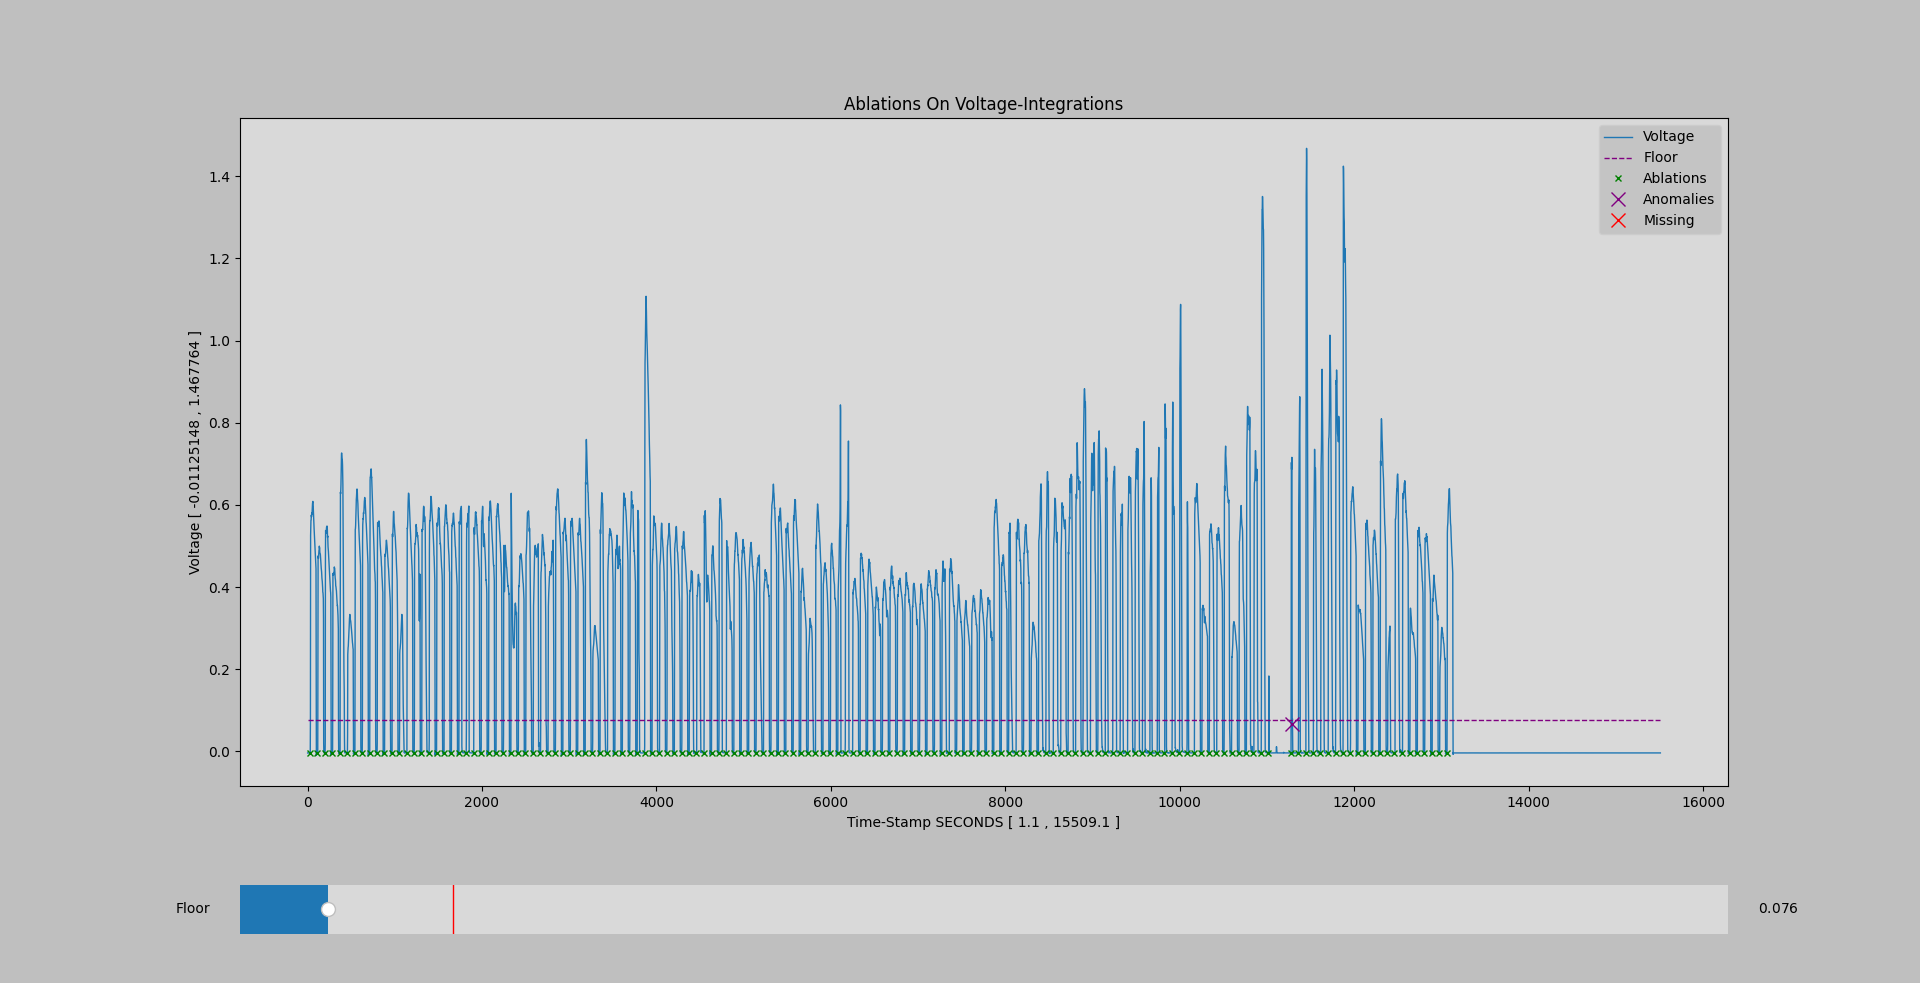
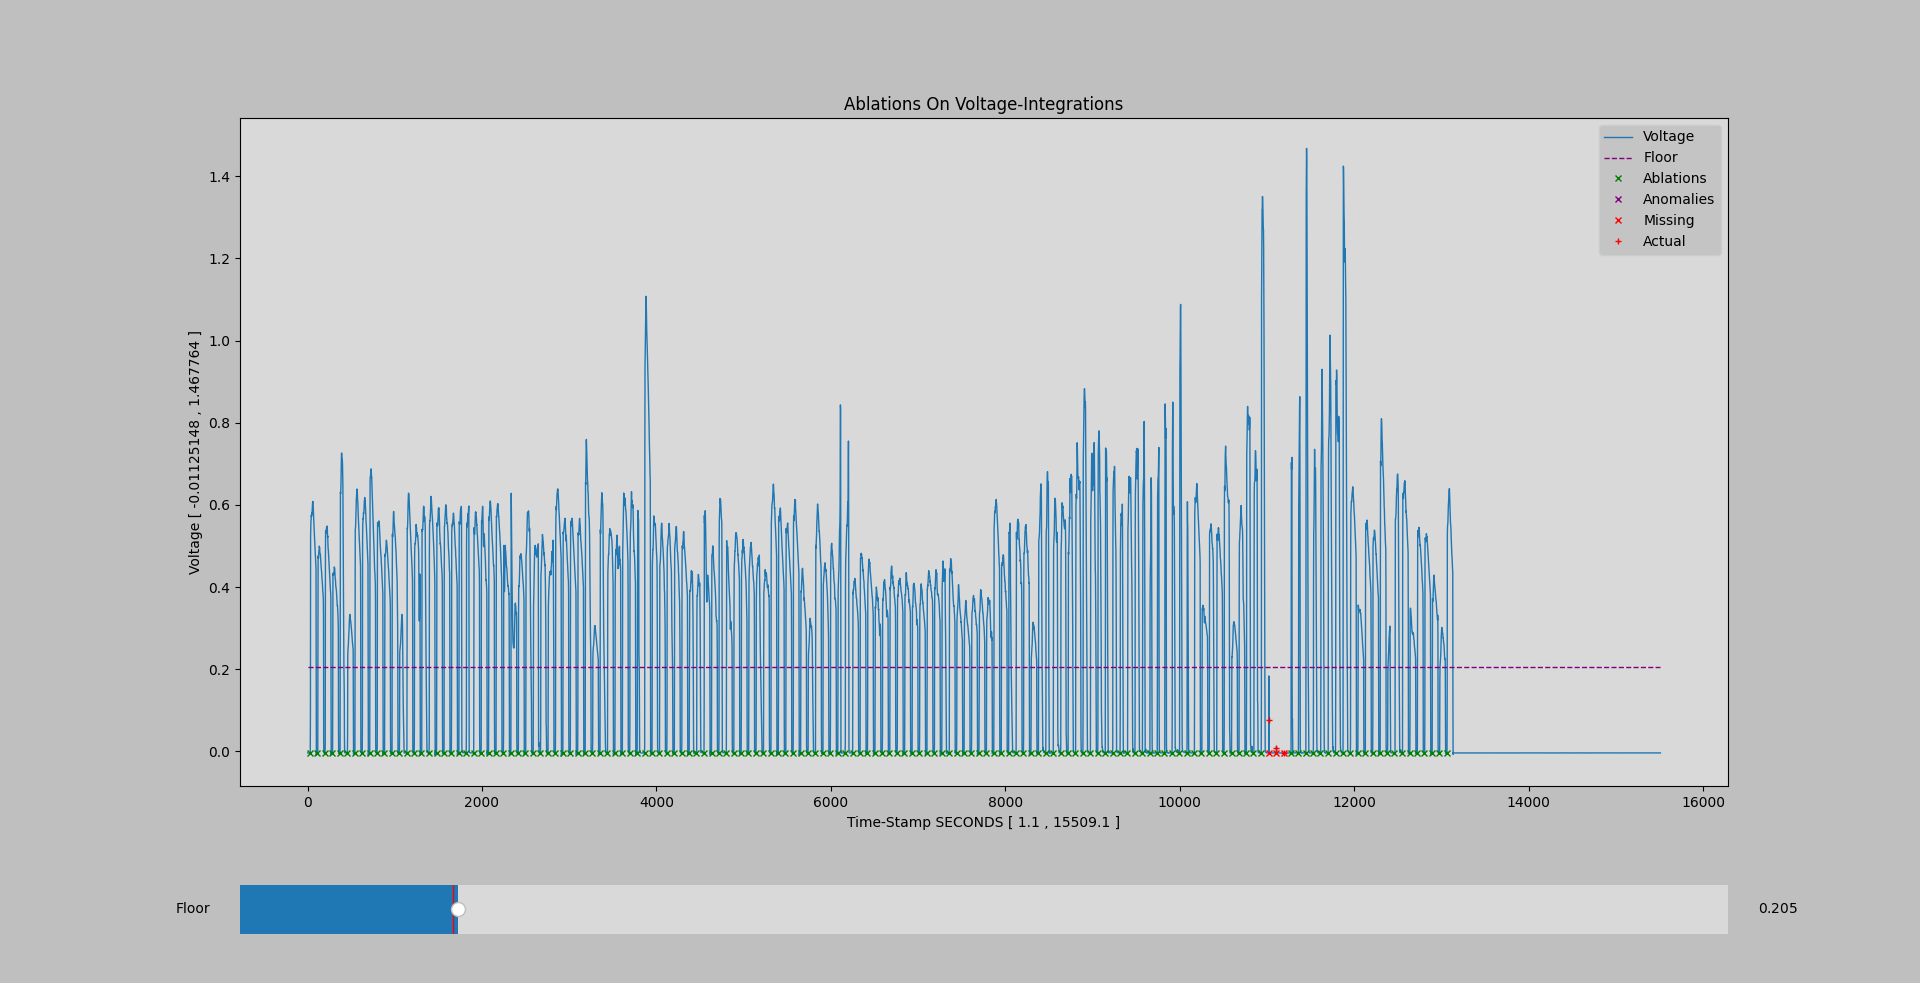
added miss detection and plotting

Changed region(s): [[0.1562, 0.885, 0.25, 0.9766]]

diff --git a/PlotIntegrations.py b/PlotIntegrations.py
@@ -77,6 +77,13 @@ def main():
     i_voltages = iDF.iloc[:,i_voltageIndex]
     a_vertices = aDF.iloc[:,a_vertexIndex]
 
+    # calculating the interval between integrations
+    integrationTimeStep = i_timeStamps[1] - i_timeStamps[0]
+    
+    # getting the expected number of ablation detections
+    expectedAblationCount = a_vertices.size
+
+
 
 
     # plotting the primary integration data    
@@ -94,9 +101,6 @@ def main():
     plt.ylabel(f'Voltage [ {i_voltages.min()} , {i_voltages.max()} ]')
     
     
-    
-    # calculating the interval between integrations
-    #timeStep = i_timeStamps[1] - i_timeStamps[0]
 
     # initializing and drawing the floor line 
     initialFloor = 0.20
@@ -108,15 +112,26 @@ def main():
 
     # initializing and drawing the ablation intersections
     ablations, = plt.plot([], [], 'x', color='green', markersize=5, label='Ablations')
-    anomalies, = plt.plot([], [], 'x', color='purple', markersize=10, label='Anomalies')
+    anomalies, = plt.plot([], [], 'x', color='purple', markersize=5, label='Anomalies')
+    errorsFlat, = plt.plot([], [], 'x', color='red', markersize=5, label='Missing')
+    errors, = plt.plot([], [], '+', color='red', markersize=5, label='Actual')
+
+    # ablation set method
     def setAblations(floor):
+
+        saddles = []
 
         ablationsX = []
         ablationsY = []
-        
+        ablationTimeIndices = []
+
         anomaliesX = []
         anomaliesY = []
         
+        errorsX = []
+        errorsY = []
+        errorsFlatY = []
+
         saddleSize = 0
         saddleIndex = 0
         
@@ -140,6 +155,10 @@ def main():
                 else:
                     ablationsX.append(i_timeStamps[saddleIndex])
                     ablationsY.append(i_voltages[saddleIndex])
+                    ablationTimeIndices.append(saddleIndex)
+                # getting index range of this saddle
+                saddles.append( (saddleIndex - saddleSize , saddleIndex) )
+                # resetting saddle size
                 saddleSize = 0
             
             # our saddle has grown
@@ -153,6 +172,60 @@ def main():
 
         anomalies.set_xdata(anomaliesX)
         anomalies.set_ydata(anomaliesY)
+
+        # calculating average and allowable step
+        ablationTimeStepAverage = (ablationsX[-1] - ablationsX[0]) / (len(ablationsX) - 1)
+        allowableTimeStep = ablationTimeStepAverage * 1.25
+        averageAblationY = 0
+        for y in ablationsY:
+            averageAblationY += y
+        averageAblationY /= len(ablationsY)
+
+        # calculating missing ablations
+        for i in range(0, len(ablationsX) - 1):
+            curTime = ablationsX[i]
+            nextTime = ablationsX[i + 1]
+            distance = nextTime - curTime
+            
+            # idnetifying errors following from current ablation
+            if (distance > allowableTimeStep):
+                missCount = int(distance / ablationTimeStepAverage)
+                timeIndex = ablationTimeIndices[i]
+                
+                # building errors following current ablation
+                for m in range(1,missCount+1):
+                    
+                    # adding error x
+                    errorTime = curTime + (ablationTimeStepAverage * m)
+                    errorsX.append(errorTime)
+                    
+                    # calculating actual error y value on plot
+                    while (i_timeStamps[timeIndex + 1] < errorTime):
+                        timeIndex += 1
+                    x1 = i_timeStamps[timeIndex]
+                    x2 = i_timeStamps[timeIndex + 1]
+                    y1 = i_voltages[timeIndex]
+                    y2 = i_voltages[timeIndex + 1]
+                    slope = (y2-y1) / (x2-x1)
+                    y = (slope * (errorTime - x1)) + y1
+                    
+                    # adding error y
+                    errorsY.append(y)
+                    errorsFlatY.append(averageAblationY)
+
+        # updating errors / missing ablations on plot
+        errors.set_xdata(errorsX)
+        errors.set_ydata(errorsY)
+        errorsFlat.set_xdata(errorsX)
+        errorsFlat.set_ydata(errorsFlatY)
+
+        # unkown trailing / preceding missing ablations
+        extraneousMissingCount = expectedAblationCount - len(errorsX) - len(ablationsX)
+        print("ABLATIONS > DETECTED:", len(ablationsX), "| EXPECTED:", expectedAblationCount, "| MISSING LOCATED:", len(errorsX), "| MISSING EXTRANEOUS:", extraneousMissingCount)
+        if (extraneousMissingCount > 0):
+            print(f"WARNING > {extraneousMissingCount} UNIDENTIFIABLE ABLATIONS")
+        if (extraneousMissingCount < 0):
+            print(f"WARNING > {extraneousMissingCount} MORE DETECTIONS THAN EXPECTED")
         
 
 
@@ -161,14 +234,7 @@ def main():
 
 
 
-    errors, = plt.plot([], [], 'x', color='red', markersize=10, label='Missing')
-
-    # need most common interval
-    # need an average interval
-    # need an allowable interval range
-
     # TODO add toggle button for include anomalies within ablations 
-    # TODO error checking based on integration intervals
     # TODO slider reset buttons
     # TODO add Voltge units
 
@@ -208,5 +274,3 @@ def main():
 # don't run on import
 if (__name__ == '__main__'):
     main()
-
-
